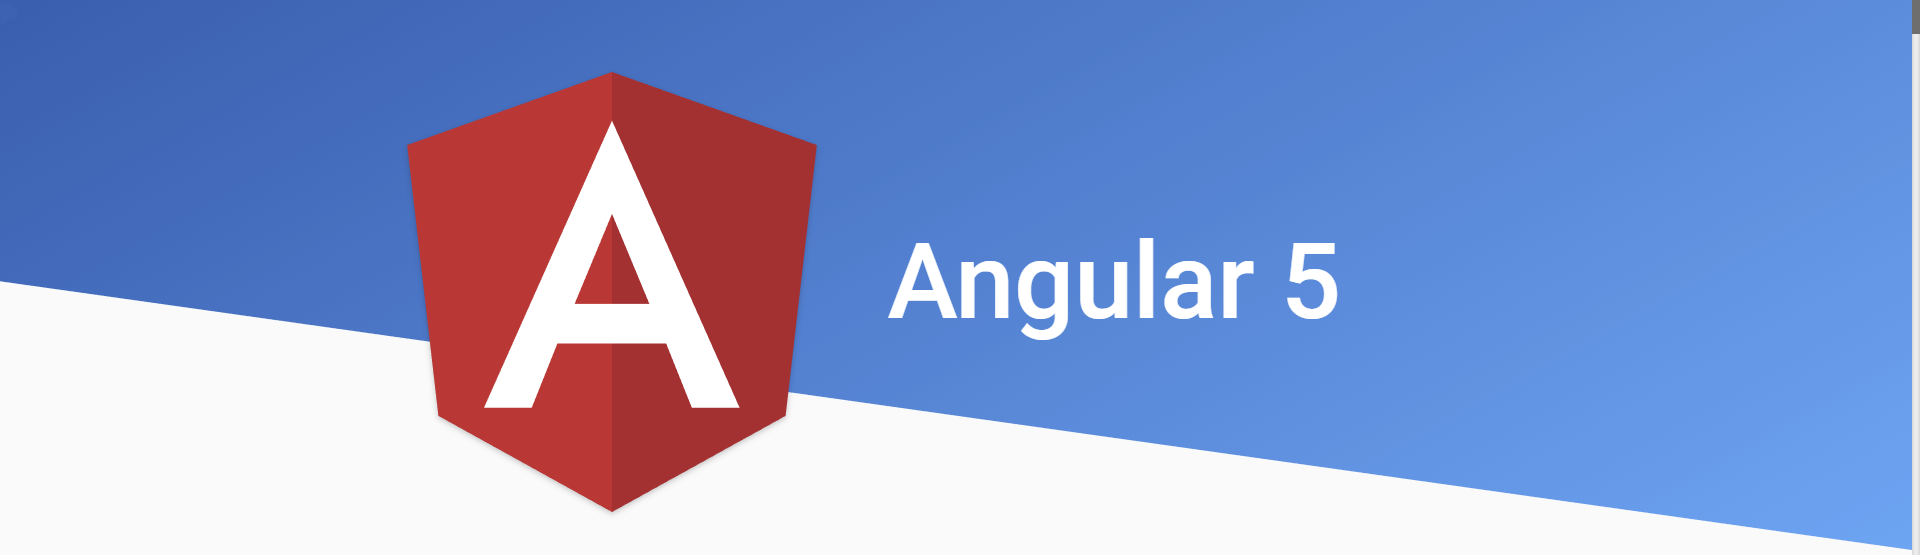
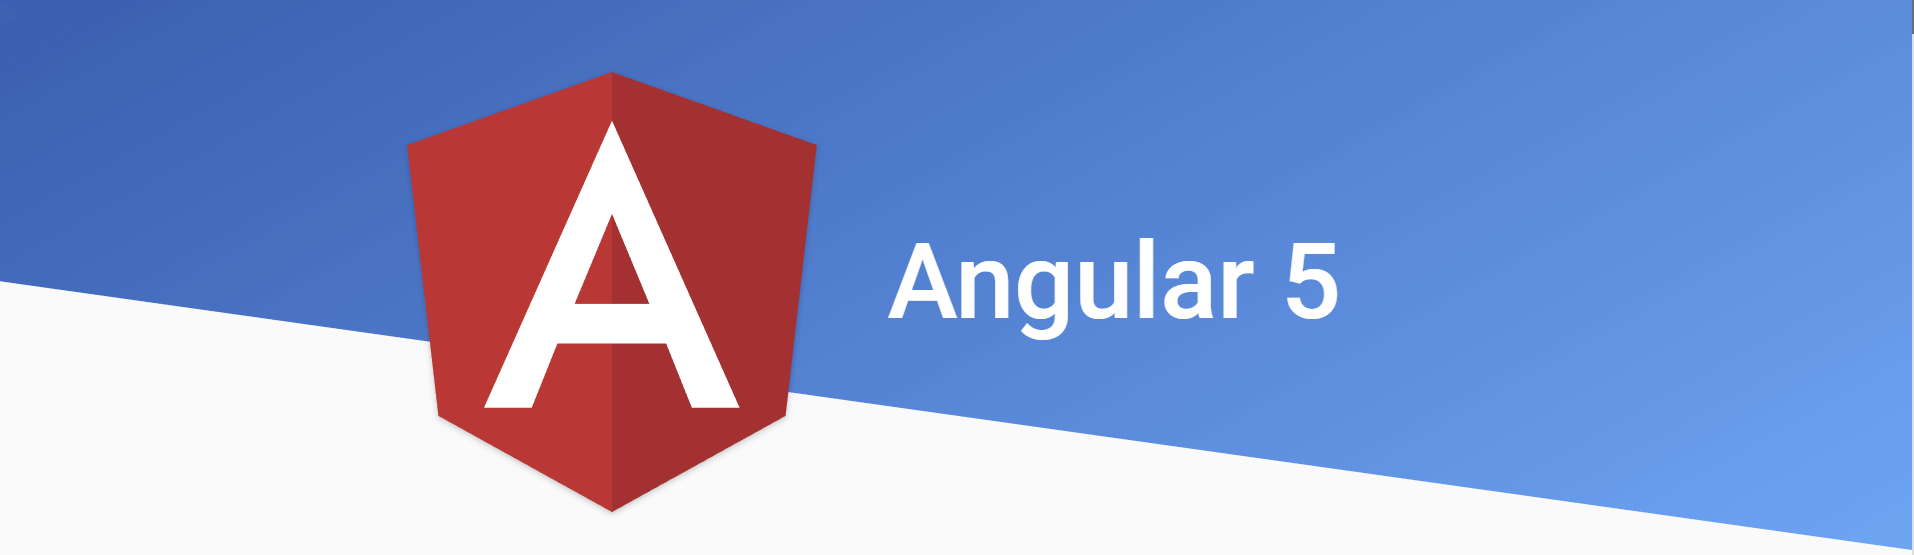
nope, das sieht doof aus

Changed region(s): [[0.9864, 0.0, 1.0, 1.0], [0.4624, 0.4288, 0.709, 0.6126]]

diff --git a/blog/2017-11-angular5/README.md b/blog/2017-11-angular5/README.md
@@ -8,7 +8,6 @@ keywords:
   - Angular 5
 language: de
 thumbnail: ../angular5.png
-darken-thumbnail: true
 sticky: true
 ---
 

diff --git a/blog/2017-11-ng5-locales/README.md b/blog/2017-11-ng5-locales/README.md
@@ -8,7 +8,6 @@ keywords:
   - Angular 5
 language: de
 thumbnail: ../angular5.png
-darken-thumbnail: true
 ---
 
 !! WIP !!

diff --git a/blog/2017-11-httpclient/README.md b/blog/2017-11-httpclient/README.md
@@ -10,7 +10,6 @@ keywords:
   - HTTP
 language: de
 thumbnail: ../angular5.png
-darken-thumbnail: true
 ---
 
 ## Abstract
